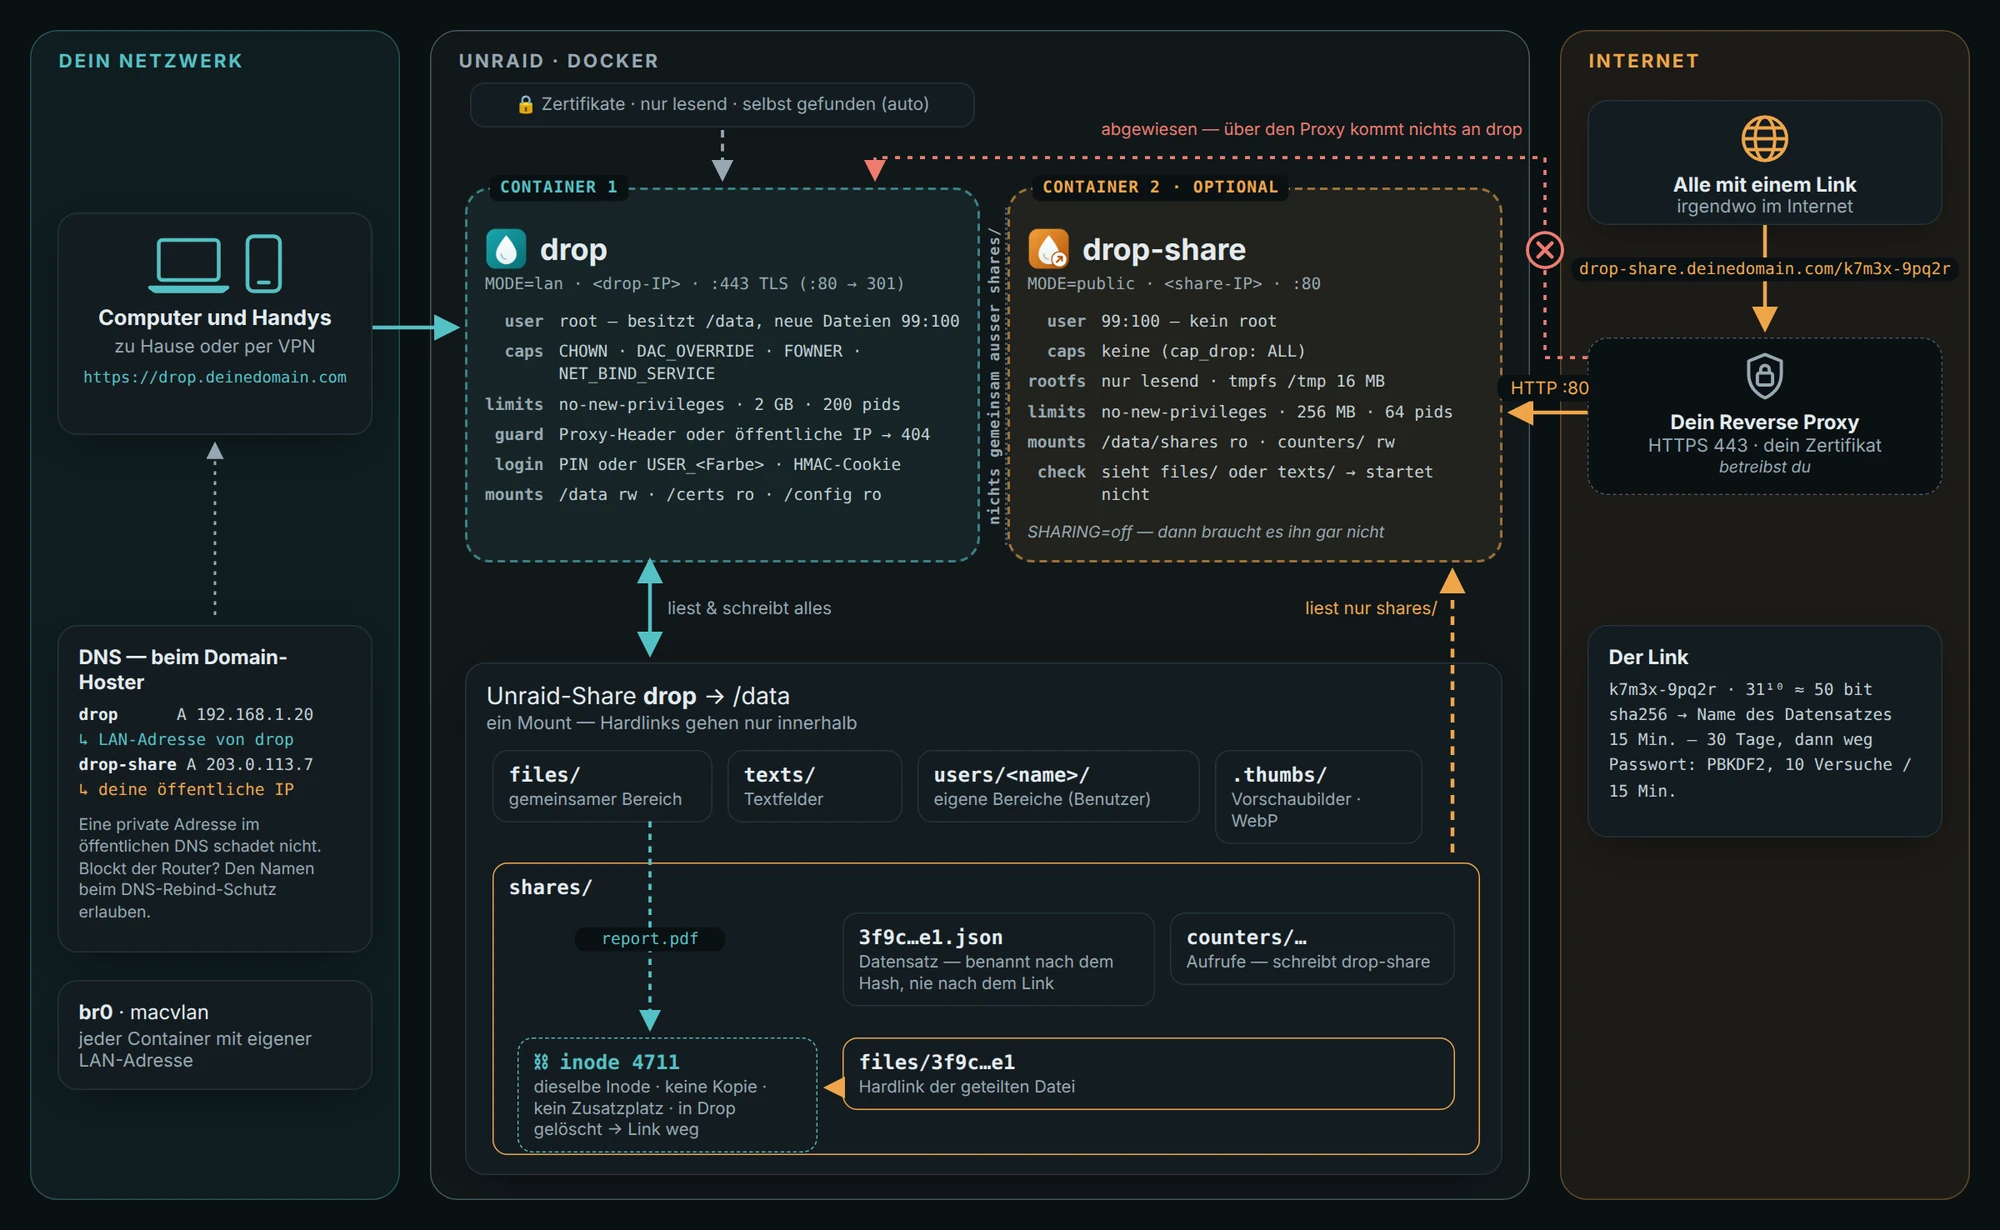
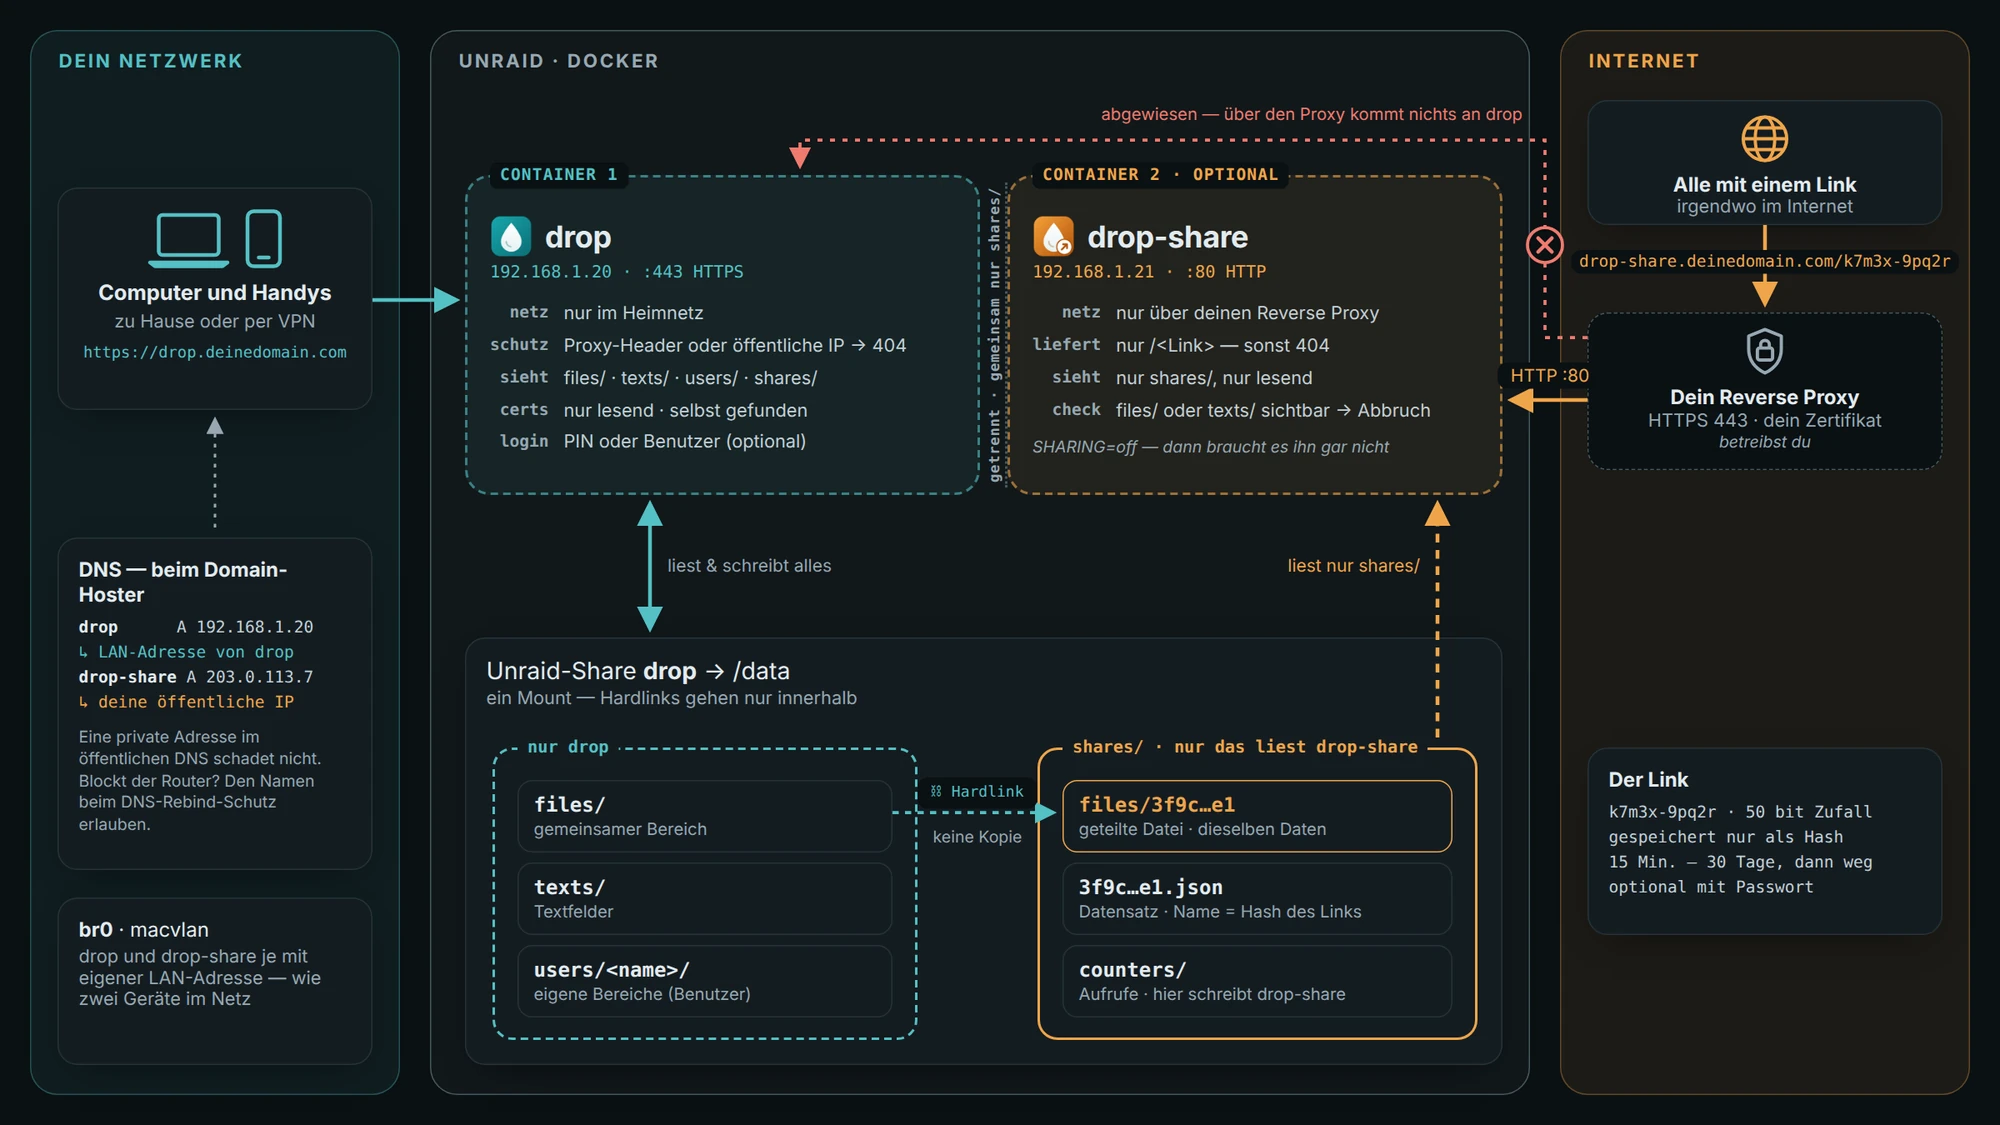
Diagram: a middle way — networks and walls, not process details
The architecture picture had grown too dense. It now shows what matters
for trust: who reaches which container over which network (LAN address
via DNS, the reverse proxy, the refused path to drop), the two containers
walled off with only shares/ in common, what each one answers and sees,
and a share as a hard link instead of a copy. Users, capabilities and
resource limits are gone from the picture; the README still lists them
under "How it is protected".

Claude-Session: https://claude.ai/code/session_01JJbUtLtMVVvXZcBoi5qyfq

diff --git a/docs/de/index.html b/docs/de/index.html
@@ -315,7 +315,7 @@
     <p class="sub wide"><b>drop</b> hält deine Dateien und Texte und ist nur im Heimnetz erreichbar. <b>drop-share</b> liefert die Freigabe-Links ins Internet aus — und sieht nichts ausser dem, was du geteilt hast. Reverse Proxy und Zertifikate bleiben deine Sache.</p>
     <picture class="diagram">
       <source media="(prefers-color-scheme: dark)" srcset="../diagram/architecture-de-dark.webp">
-      <img src="../diagram/architecture-de-light.webp" width="2000" height="1230" loading="lazy" alt="Architektur: Geräte im Heimnetz erreichen drop direkt unter drop.deinedomain.com, dessen DNS-Eintrag auf die LAN-Adresse von drop zeigt. drop und das optionale drop-share laufen als zwei getrennte Container mit eigenen LAN-Adressen: drop als root mit nur vier Capabilities, drop-share als Benutzer 99:100 ohne jede Capability auf einem nur lesbaren Dateisystem. drop liest und schreibt den ganzen Daten-Share; drop-share sieht nur shares/, nur lesend. Eine geteilte Datei ist ein Hardlink in shares/files auf dieselbe Inode wie das Original — keine Kopie. Aus dem Internet gehen Anfragen über deinen Reverse Proxy zu drop-share auf Port 80; drop weist alles ab, was über einen Proxy kommt.">
+      <img src="../diagram/architecture-de-light.webp" width="2000" height="1125" loading="lazy" alt="Architektur: Geräte im Heimnetz erreichen drop direkt unter drop.deinedomain.com, dessen DNS-Eintrag auf die LAN-Adresse von drop zeigt. drop und das optionale drop-share laufen als zwei getrennte Container mit je eigener LAN-Adresse (br0, macvlan); gemeinsam haben sie nur shares/. drop antwortet nur im Heimnetz und weist alles mit Proxy-Headern oder von öffentlichen IPs ab; es liest und schreibt den ganzen Daten-Share. drop-share liefert nur Freigabe-Links, nur über deinen Reverse Proxy, und liest nur shares/. Eine geteilte Datei ist ein Hardlink in shares/ — keine Kopie. Aus dem Internet gehen Anfragen über deinen Reverse Proxy zu drop-share auf Port 80; zu drop kommt so nichts.">
     </picture>
   </div>
 </section>

diff --git a/docs/index.html b/docs/index.html
@@ -315,7 +315,7 @@
     <p class="sub wide"><b>drop</b> holds your files and texts and is reachable only in your network. <b>drop-share</b> serves the share links to the internet — and sees nothing but what you shared. Your reverse proxy and your certificates stay yours.</p>
     <picture class="diagram">
       <source media="(prefers-color-scheme: dark)" srcset="diagram/architecture-en-dark.webp">
-      <img src="diagram/architecture-en-light.webp" width="2000" height="1230" loading="lazy" alt="Architecture: devices in your network reach drop directly at drop.yourdomain.com, whose DNS entry points to drop's LAN address. drop and the optional drop-share run as two separate containers with their own LAN addresses: drop as root with only four capabilities, drop-share as user 99:100 without any capability on a read-only file system. drop reads and writes the whole data share; drop-share sees only shares/, read-only. A shared file is a hard link in shares/files to the same inode as the original — no copy. From the internet, requests go through your reverse proxy to drop-share on port 80; drop refuses anything that comes through a proxy.">
+      <img src="diagram/architecture-en-light.webp" width="2000" height="1125" loading="lazy" alt="Architecture: devices in your network reach drop directly at drop.yourdomain.com, whose DNS entry points to drop's LAN address. drop and the optional drop-share run as two separate containers, each with a LAN address of its own (br0, macvlan), walled off from each other with only shares/ in common. drop answers your network only and refuses anything with proxy headers or from a public IP; it reads and writes the whole data share. drop-share serves only share links, only through your reverse proxy, and reads only shares/. A shared file is a hard link in shares/ — no copy. From the internet, requests go through your reverse proxy to drop-share on port 80; nothing reaches drop that way.">
     </picture>
   </div>
 </section>

diff --git a/tools/site/page.html b/tools/site/page.html
@@ -185,7 +185,7 @@
     <p class="sub wide">{{how.text}}</p>
     <picture class="diagram">
       <source media="(prefers-color-scheme: dark)" srcset="{{root}}diagram/architecture-{{lang}}-dark.webp">
-      <img src="{{root}}diagram/architecture-{{lang}}-light.webp" width="2000" height="1230" loading="lazy" alt="{{how.alt}}">
+      <img src="{{root}}diagram/architecture-{{lang}}-light.webp" width="2000" height="1125" loading="lazy" alt="{{how.alt}}">
     </picture>
   </div>
 </section>

diff --git a/README.de.md b/README.de.md
@@ -69,7 +69,7 @@ auf jedem anderen Linux-Rechner mit Docker Compose: siehe
 <p align="center">
   <picture>
     <source media="(prefers-color-scheme: dark)" srcset="docs/diagram/architecture-de-dark.webp">
-    <img src="docs/diagram/architecture-de-light.webp" alt="Architektur: Geräte im Heimnetz erreichen drop direkt unter drop.deinedomain.com, dessen DNS-Eintrag auf die LAN-Adresse von drop zeigt. drop und das optionale drop-share laufen als zwei getrennte Container mit eigenen LAN-Adressen: drop als root mit nur vier Capabilities, drop-share als Benutzer 99:100 ohne jede Capability auf einem nur lesbaren Dateisystem. drop liest und schreibt den ganzen Daten-Share; drop-share sieht nur shares/, nur lesend. Eine geteilte Datei ist ein Hardlink in shares/files auf dieselbe Inode wie das Original — keine Kopie. Aus dem Internet gehen Anfragen über deinen Reverse Proxy zu drop-share auf Port 80; drop weist alles ab, was über einen Proxy kommt." width="100%">
+    <img src="docs/diagram/architecture-de-light.webp" alt="Architektur: Geräte im Heimnetz erreichen drop direkt unter drop.deinedomain.com, dessen DNS-Eintrag auf die LAN-Adresse von drop zeigt. drop und das optionale drop-share laufen als zwei getrennte Container mit je eigener LAN-Adresse (br0, macvlan); gemeinsam haben sie nur shares/. drop antwortet nur im Heimnetz und weist alles mit Proxy-Headern oder von öffentlichen IPs ab; es liest und schreibt den ganzen Daten-Share. drop-share liefert nur Freigabe-Links, nur über deinen Reverse Proxy, und liest nur shares/. Eine geteilte Datei ist ein Hardlink in shares/ — keine Kopie. Aus dem Internet gehen Anfragen über deinen Reverse Proxy zu drop-share auf Port 80; zu drop kommt so nichts." width="100%">
   </picture>
 </p>
 

diff --git a/README.md b/README.md
@@ -67,7 +67,7 @@ host with Docker Compose, too: see [Without Unraid](docs/DEVELOPMENT.md#without-
 <p align="center">
   <picture>
     <source media="(prefers-color-scheme: dark)" srcset="docs/diagram/architecture-en-dark.webp">
-    <img src="docs/diagram/architecture-en-light.webp" alt="Architecture: devices in your network reach drop directly at drop.yourdomain.com, whose DNS entry points to drop's LAN address. drop and the optional drop-share run as two separate containers with their own LAN addresses: drop as root with only four capabilities, drop-share as user 99:100 without any capability on a read-only file system. drop reads and writes the whole data share; drop-share sees only shares/, read-only. A shared file is a hard link in shares/files to the same inode as the original — no copy. From the internet, requests go through your reverse proxy to drop-share on port 80; drop refuses anything that comes through a proxy." width="100%">
+    <img src="docs/diagram/architecture-en-light.webp" alt="Architecture: devices in your network reach drop directly at drop.yourdomain.com, whose DNS entry points to drop's LAN address. drop and the optional drop-share run as two separate containers, each with a LAN address of its own (br0, macvlan), walled off from each other with only shares/ in common. drop answers your network only and refuses anything with proxy headers or from a public IP; it reads and writes the whole data share. drop-share serves only share links, only through your reverse proxy, and reads only shares/. A shared file is a hard link in shares/ — no copy. From the internet, requests go through your reverse proxy to drop-share on port 80; nothing reaches drop that way." width="100%">
   </picture>
 </p>
 
